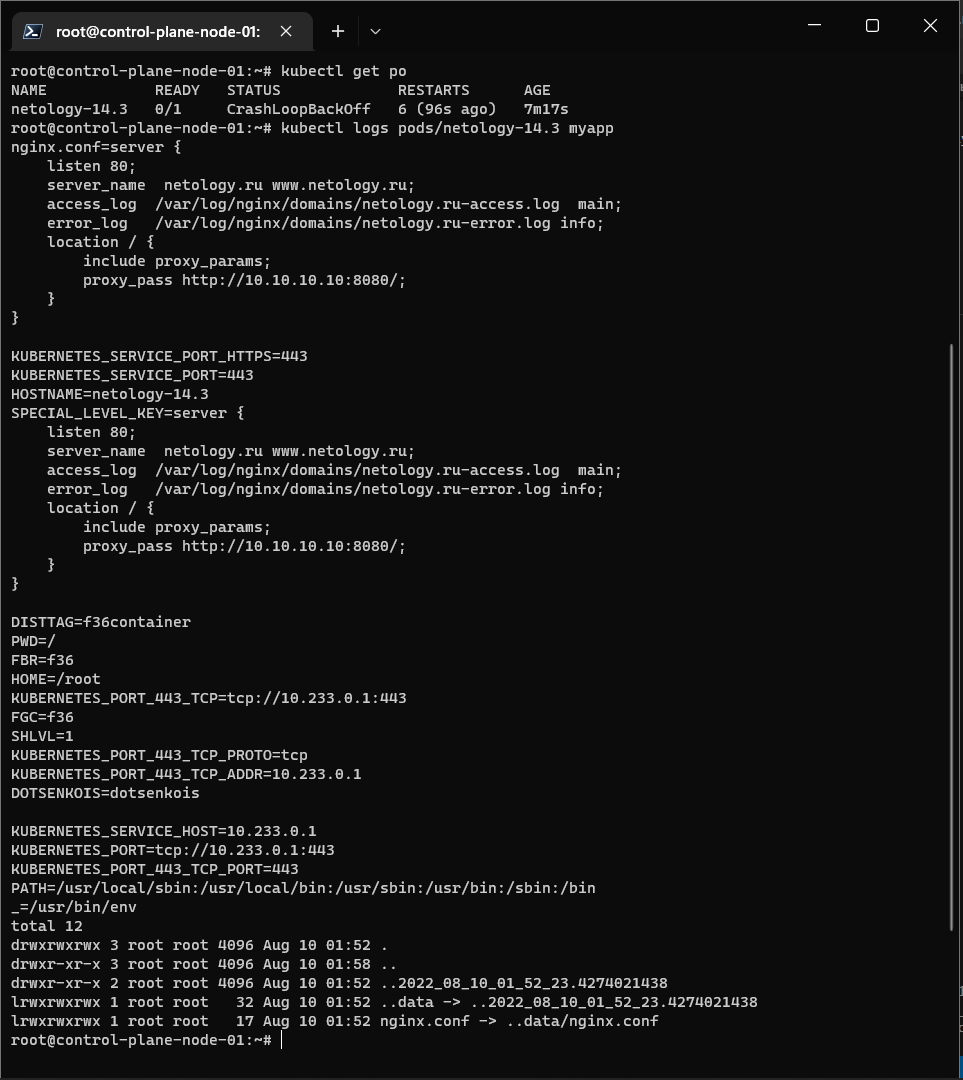
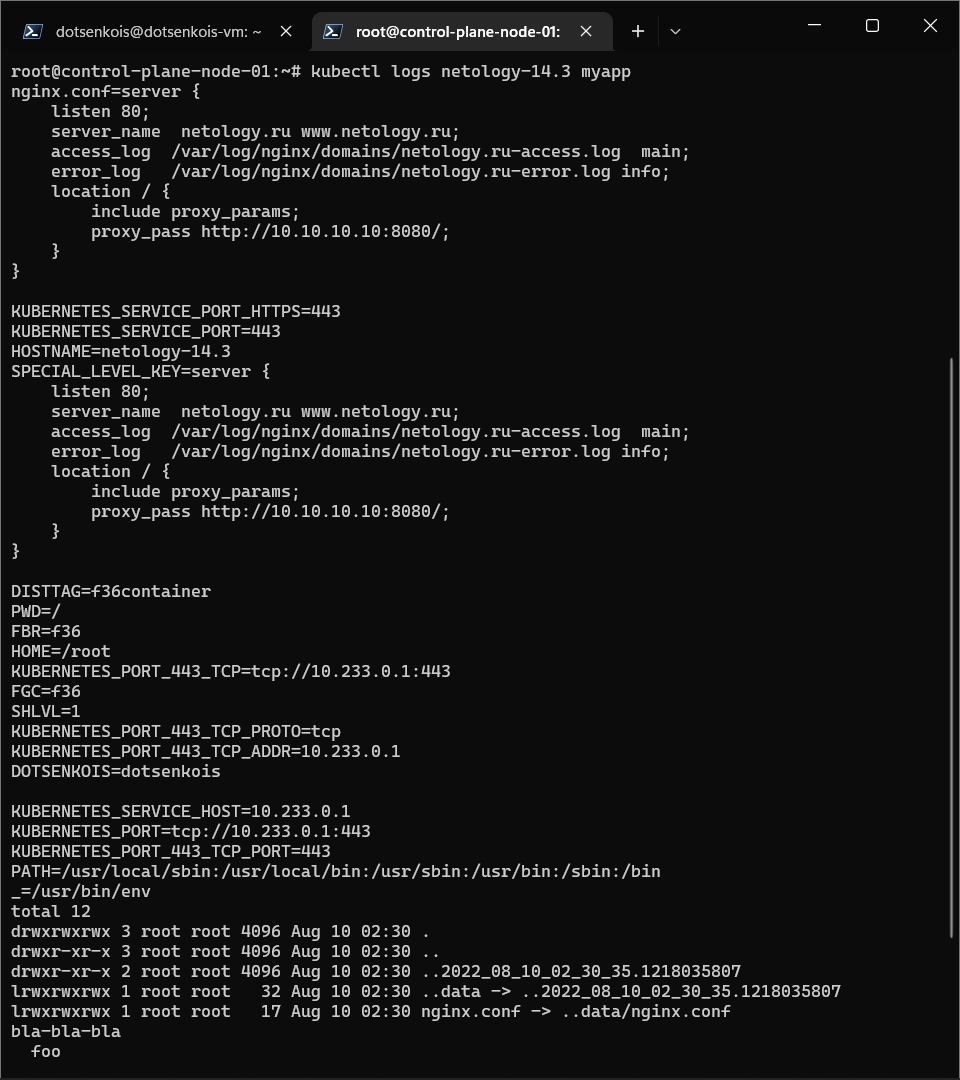
[14.3] done

diff --git a/14.3/README.md b/14.3/README.md
@@ -125,7 +125,7 @@ configmap/nginx-config created
 ## Задание 2
 
 - За оснву взят конфиг пода [myapp-pod.yml](./myapp-pod.yml)
-- Добавилена секция:
+- Добавилены секции:
 
 ```yaml
       - name: DOTSENKOIS
@@ -134,7 +134,25 @@ configmap/nginx-config created
             name: dotsenkois
             key: variable
 ```
-- Создана карта конфигурации [dotsenkois.yml](./dotsenkois.yml)
+```yaml
+    volumeMounts:
+      - name: config
+        mountPath: /etc/nginx/conf.d
+        readOnly: true
+      - name: test
+        mountPath: /tmp
+        readOnly: true
+  volumes:
+  - name: config
+    configMap:
+      name: nginx-config
+  - name: test
+    configMap:
+      name: test
+
+```
+
+- Созданы карты конфигурации [dotsenkois.yml](./dotsenkois.yml) и [test.yml](./test.yml)
 
 
 ```console
@@ -155,12 +173,31 @@ BinaryData
 ====
 
 Events:  <none>
+root@control-plane-node-01:~/devops-netology/14.3# kubectl describe configmaps test 
+Name:         test
+Namespace:    14-3
+Labels:       <none>
+Annotations:  <none>
+
+Data
+====
+test:
+----
+bla-bla-bla
+  foo
+
+
+BinaryData
+====
+
+Events:  <none>
 ```
 
 - вывод логов приложения:
 ```
     command: ['/bin/bash', '-c']
-    args: ["env; ls -la /etc/nginx/conf.d"]
+    args: ["env; ls -la /etc/nginx/conf.d; cat /tmp/test"]
+
 ```
 
 ![14.3.2.png](./14.3.2.png)
